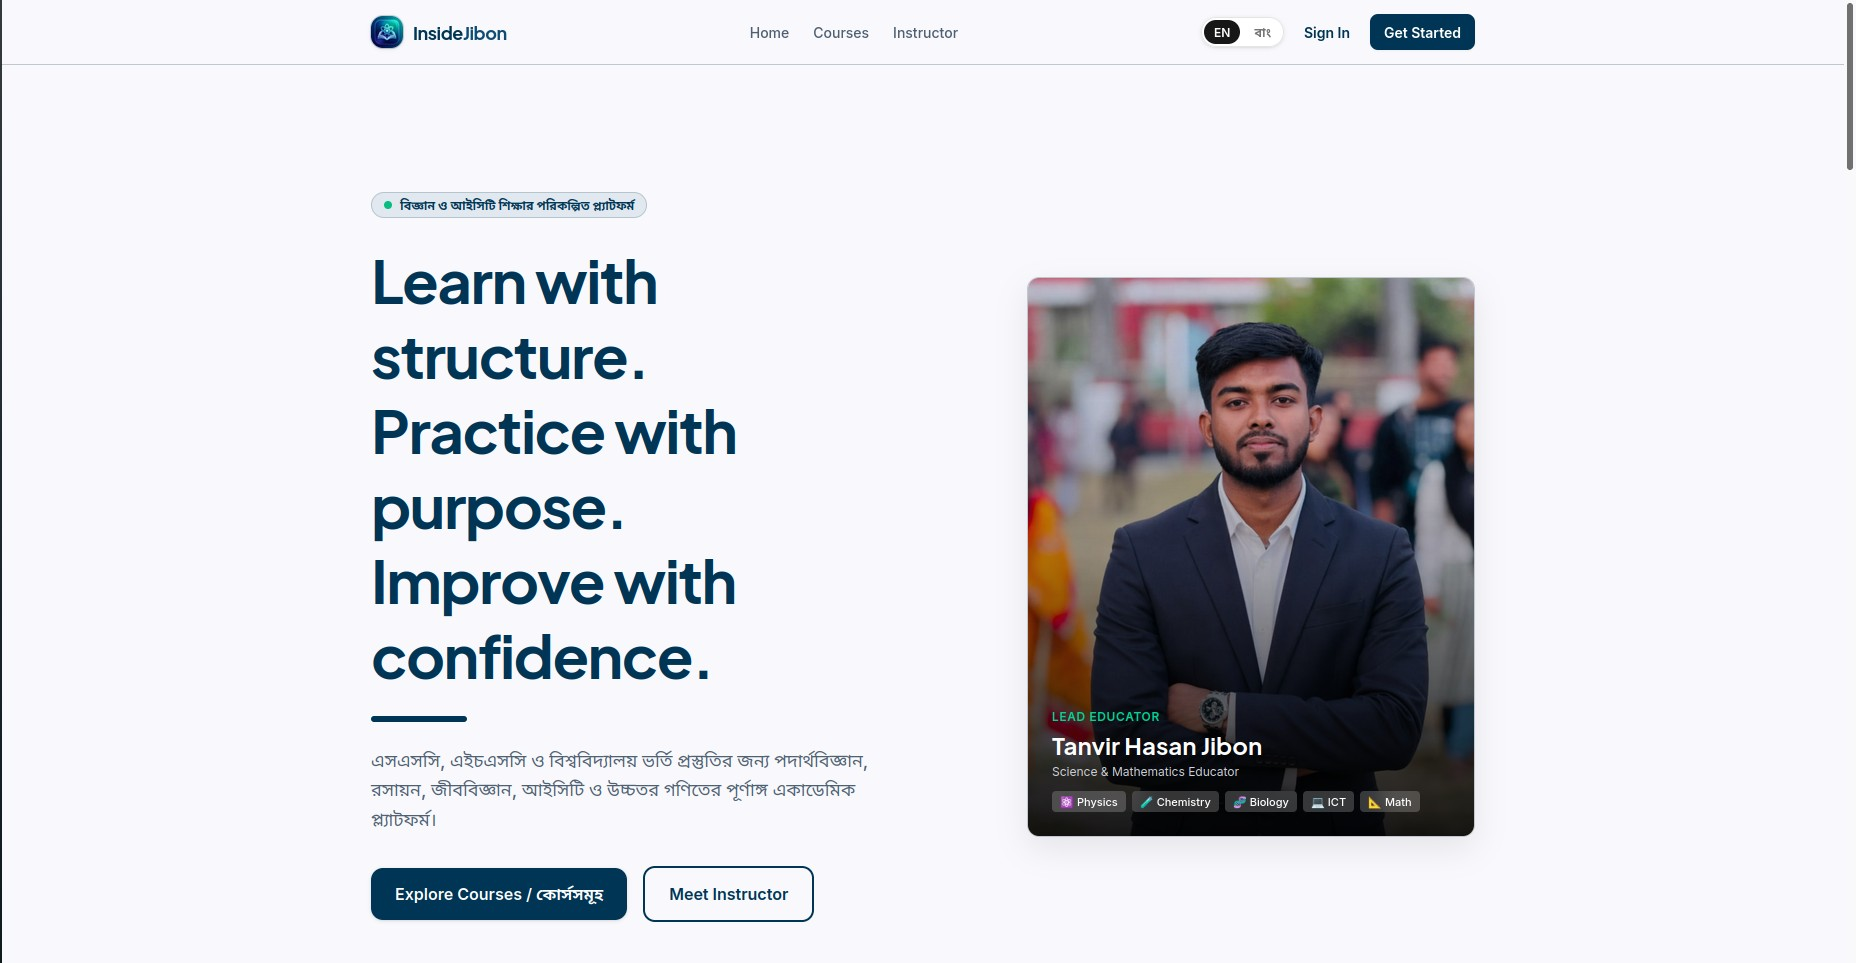
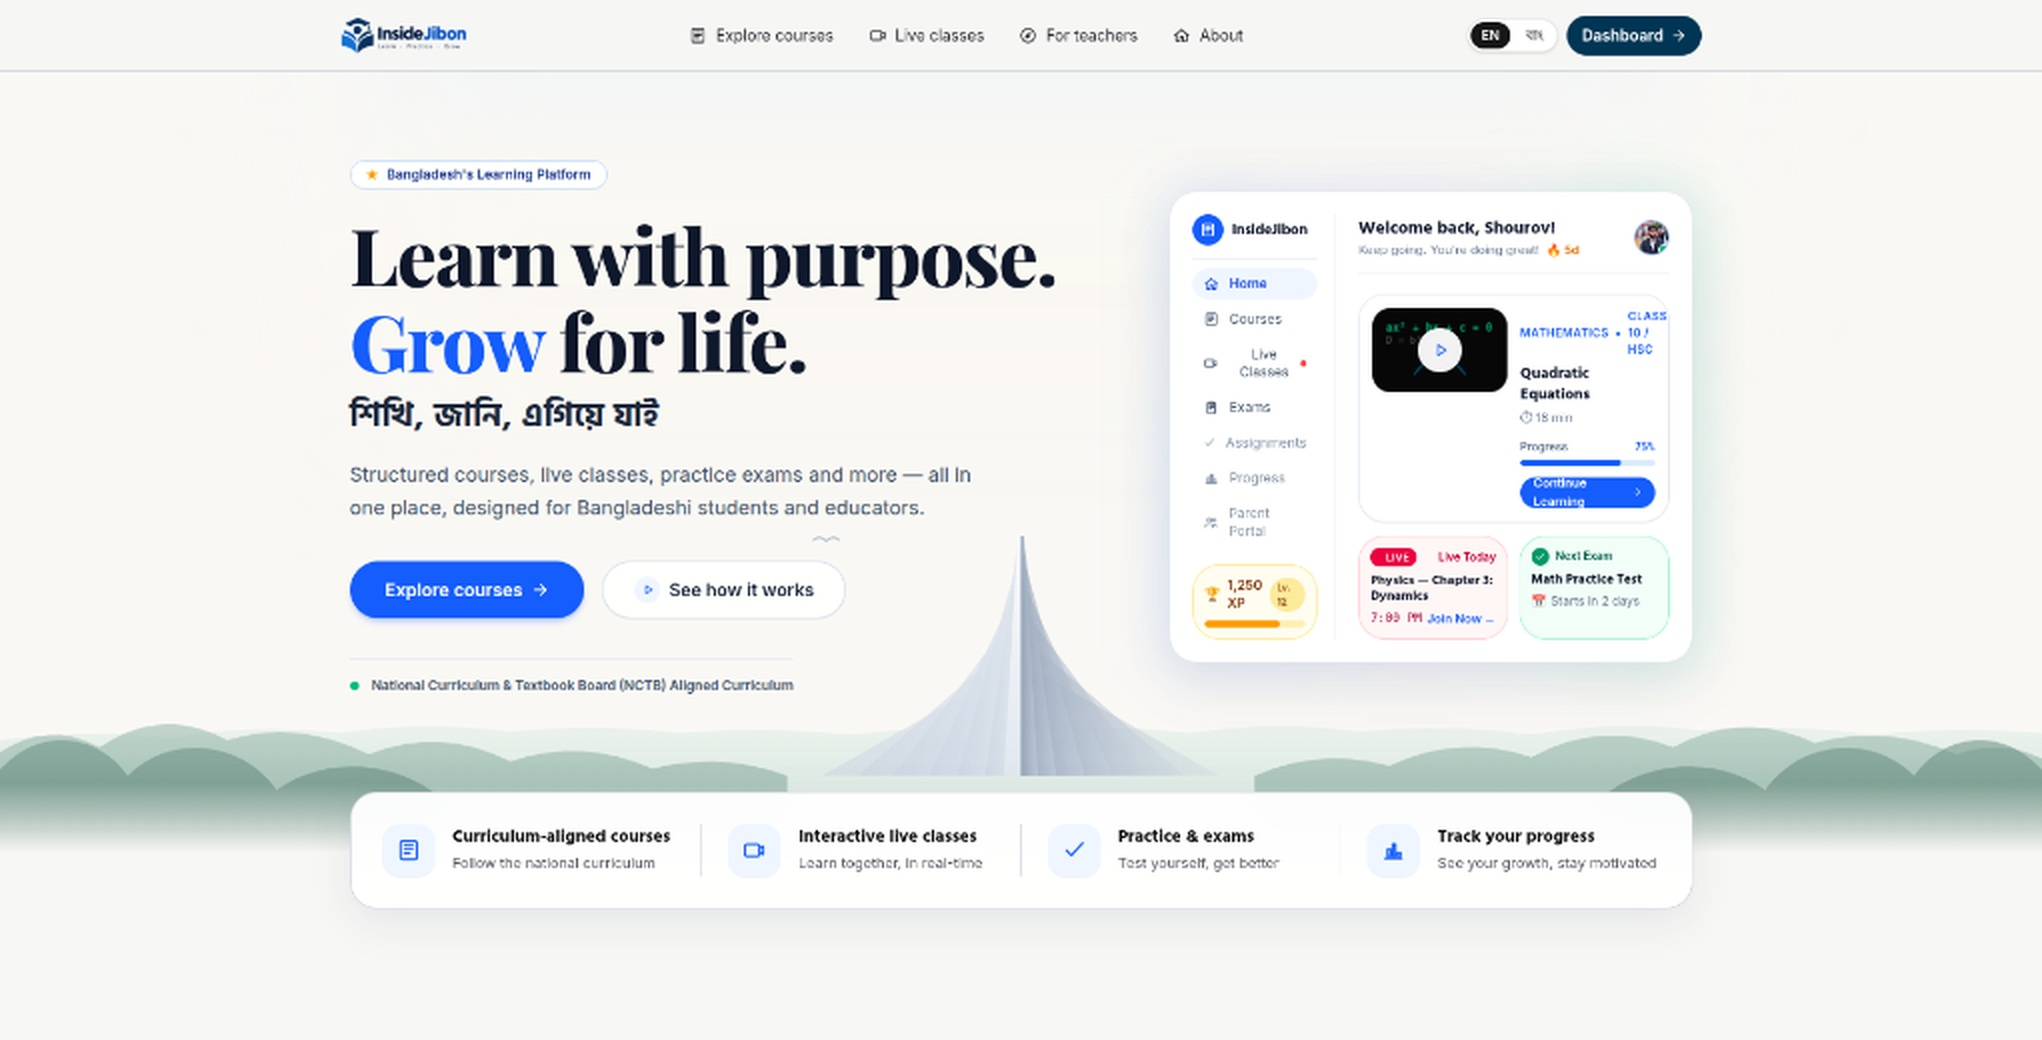
feat(showcase): update InsideJibon landing screenshot and editorial design narrative

diff --git a/content/blog/remastering-insidejibon-edtech-on-cloudflare-edge.md b/content/blog/remastering-insidejibon-edtech-on-cloudflare-edge.md
@@ -212,10 +212,13 @@ Once the instructor verifies the payment, a single click approves the student, a
 
 ---
 
-## 8. Design System 2.0: Academic Modernism
+## 8. Design System 2.0: Academic Modernism & Editorial Landing
 
 The visual identity of InsideJibon was completely overhauled to align with what I call **Academic Modernism**:
 
+- **Editorial Hero & Heritage Aesthetics**: Built a warm ivory aesthetic (`#FAF8F4`) anchored by a geometric vector tribute to the National Martyrs' Memorial (*Jatiyo Sriti Soudho*), celebrating Bangladeshi academic heritage alongside high-contrast serif headlines in `Playfair Display` and native Bengali script (*"শিখি, জানি, এগিয়ে যাই"*).
+- **Interactive Student Workspace Preview**: Embedded a live interactive dashboard preview directly on the marketing hero. Students immediately see a tangible preview of the learning experience—active NCTB courses (e.g. Class 10 / HSC Mathematics: Quadratic Equations), real-time XP counters (1,250 XP, Lv. 12), a 5-day streak indicator, live class countdowns, and upcoming practice exam reminders.
+- **4-Pillar Value Framework**: Integrated a floating visual strip outlining curriculum-aligned courses, interactive live classrooms, practice mock tests, and comprehensive progress tracking.
 - **Role-Scoped Accents**: Rather than overwhelming the user with arbitrary colors, each role gets an intentional semantic accent: Emerald for Students, Indigo for Teachers, Slate for Admins, and Rose for Parents.
 - **First-Class Bengali Typography**: Implemented Google Fonts' `Hind Siliguri` and `Noto Sans Bengali` with `font-display: swap` and precise line-height normalization to prevent layout shifts when switching between Bengali and English.
 - **Universal ⌘K Command Palette**: A keyboard-first command center enabling students and teachers to jump to any course, search doubts, toggle dark mode, or switch languages in under three keystrokes.

diff --git a/README.md b/README.md
@@ -96,6 +96,7 @@ Architected with **Next.js 16 (App Router)**, **React 19**, **TypeScript**, and 
 [![Repository](https://img.shields.io/badge/Repo-InsideJibon-181717?style=flat-square&logo=github&logoColor=white)](https://github.com/Shourov735/InsideJibon)
 [![Stack](https://img.shields.io/badge/Stack-Next.js_16_%7C_Cloudflare_Workers_%7C_Durable_Objects_%7C_Workers_AI_%7C_Neon-black?style=flat-square)](#)
 
+- **Academic Modernism Landing Experience:** Warm ivory aesthetic with Jatiyo Sriti Soudho vector backdrop, Playfair Display + Bengali typography, interactive workspace preview, and NCTB curriculum pathways.
 - **Real-Time Live Classrooms:** Cloudflare Durable Objects WebSocket architecture managing student presence, moderated chat, hand-raising, and server-side attendance.
 - **In-House AI Tutor & RAG:** Zero-subscription AI tutor running on Cloudflare Workers AI + Vectorize over YouTube auto-captions with exact-second timestamp citations.
 - **Engagement & Gamification:** Duolingo-grade engagement with an immutable XP ledger, daily study streaks with freeze mechanics, and weekly league cohorts.
